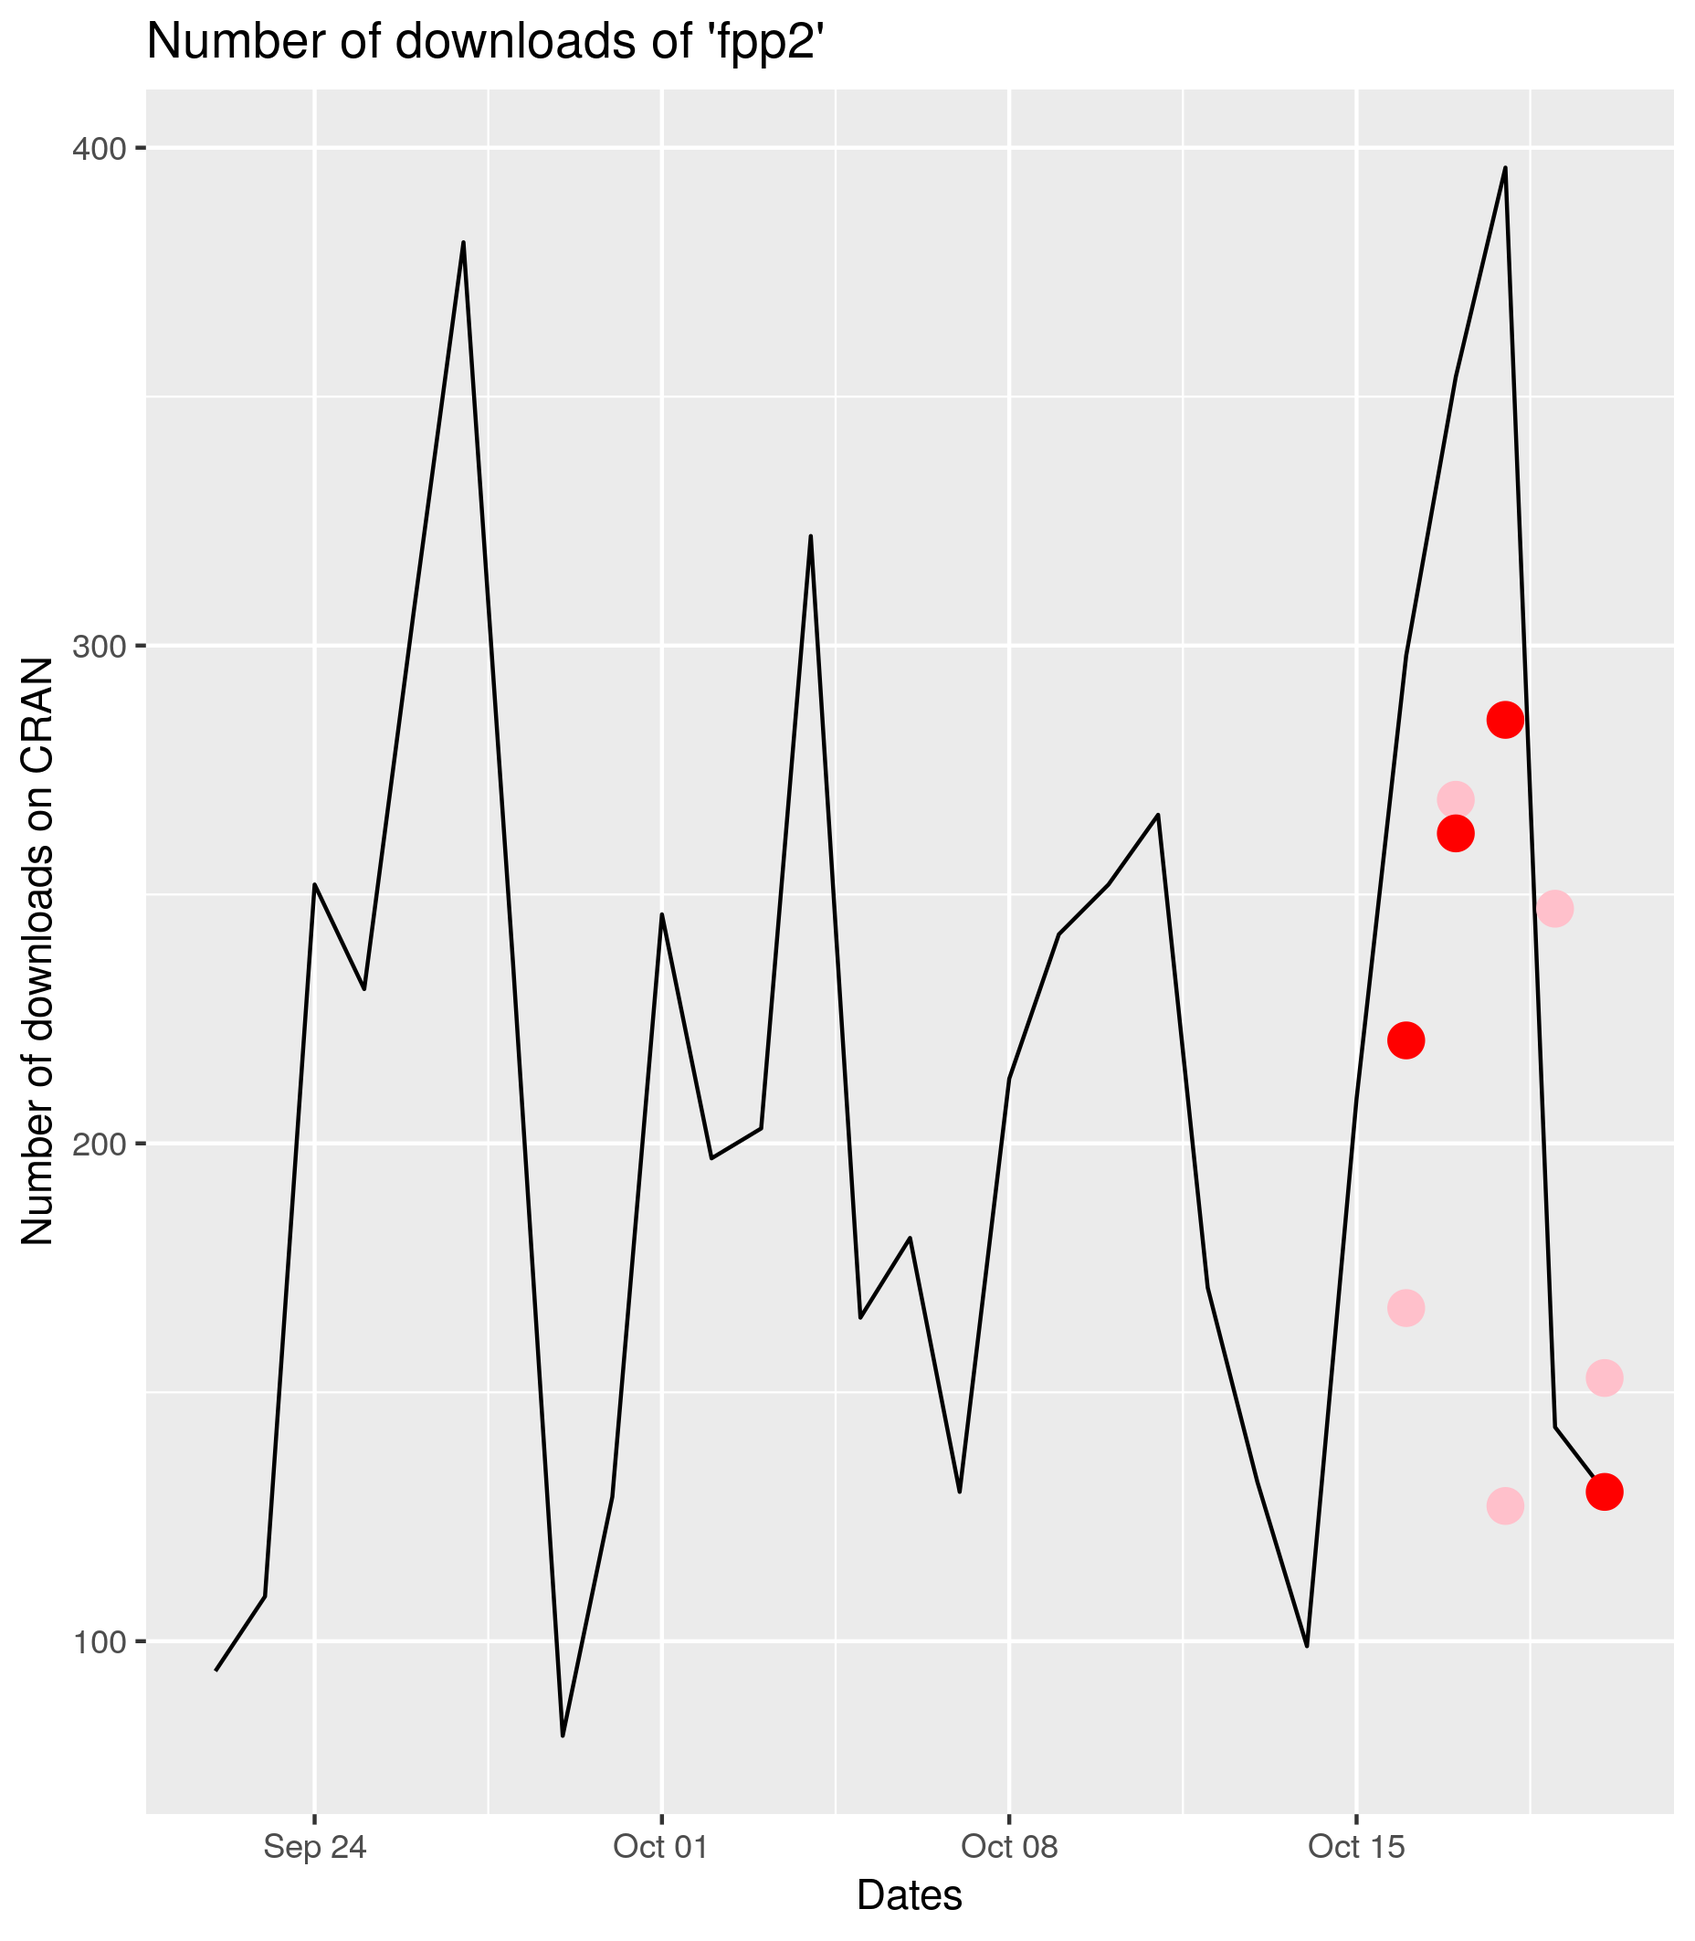
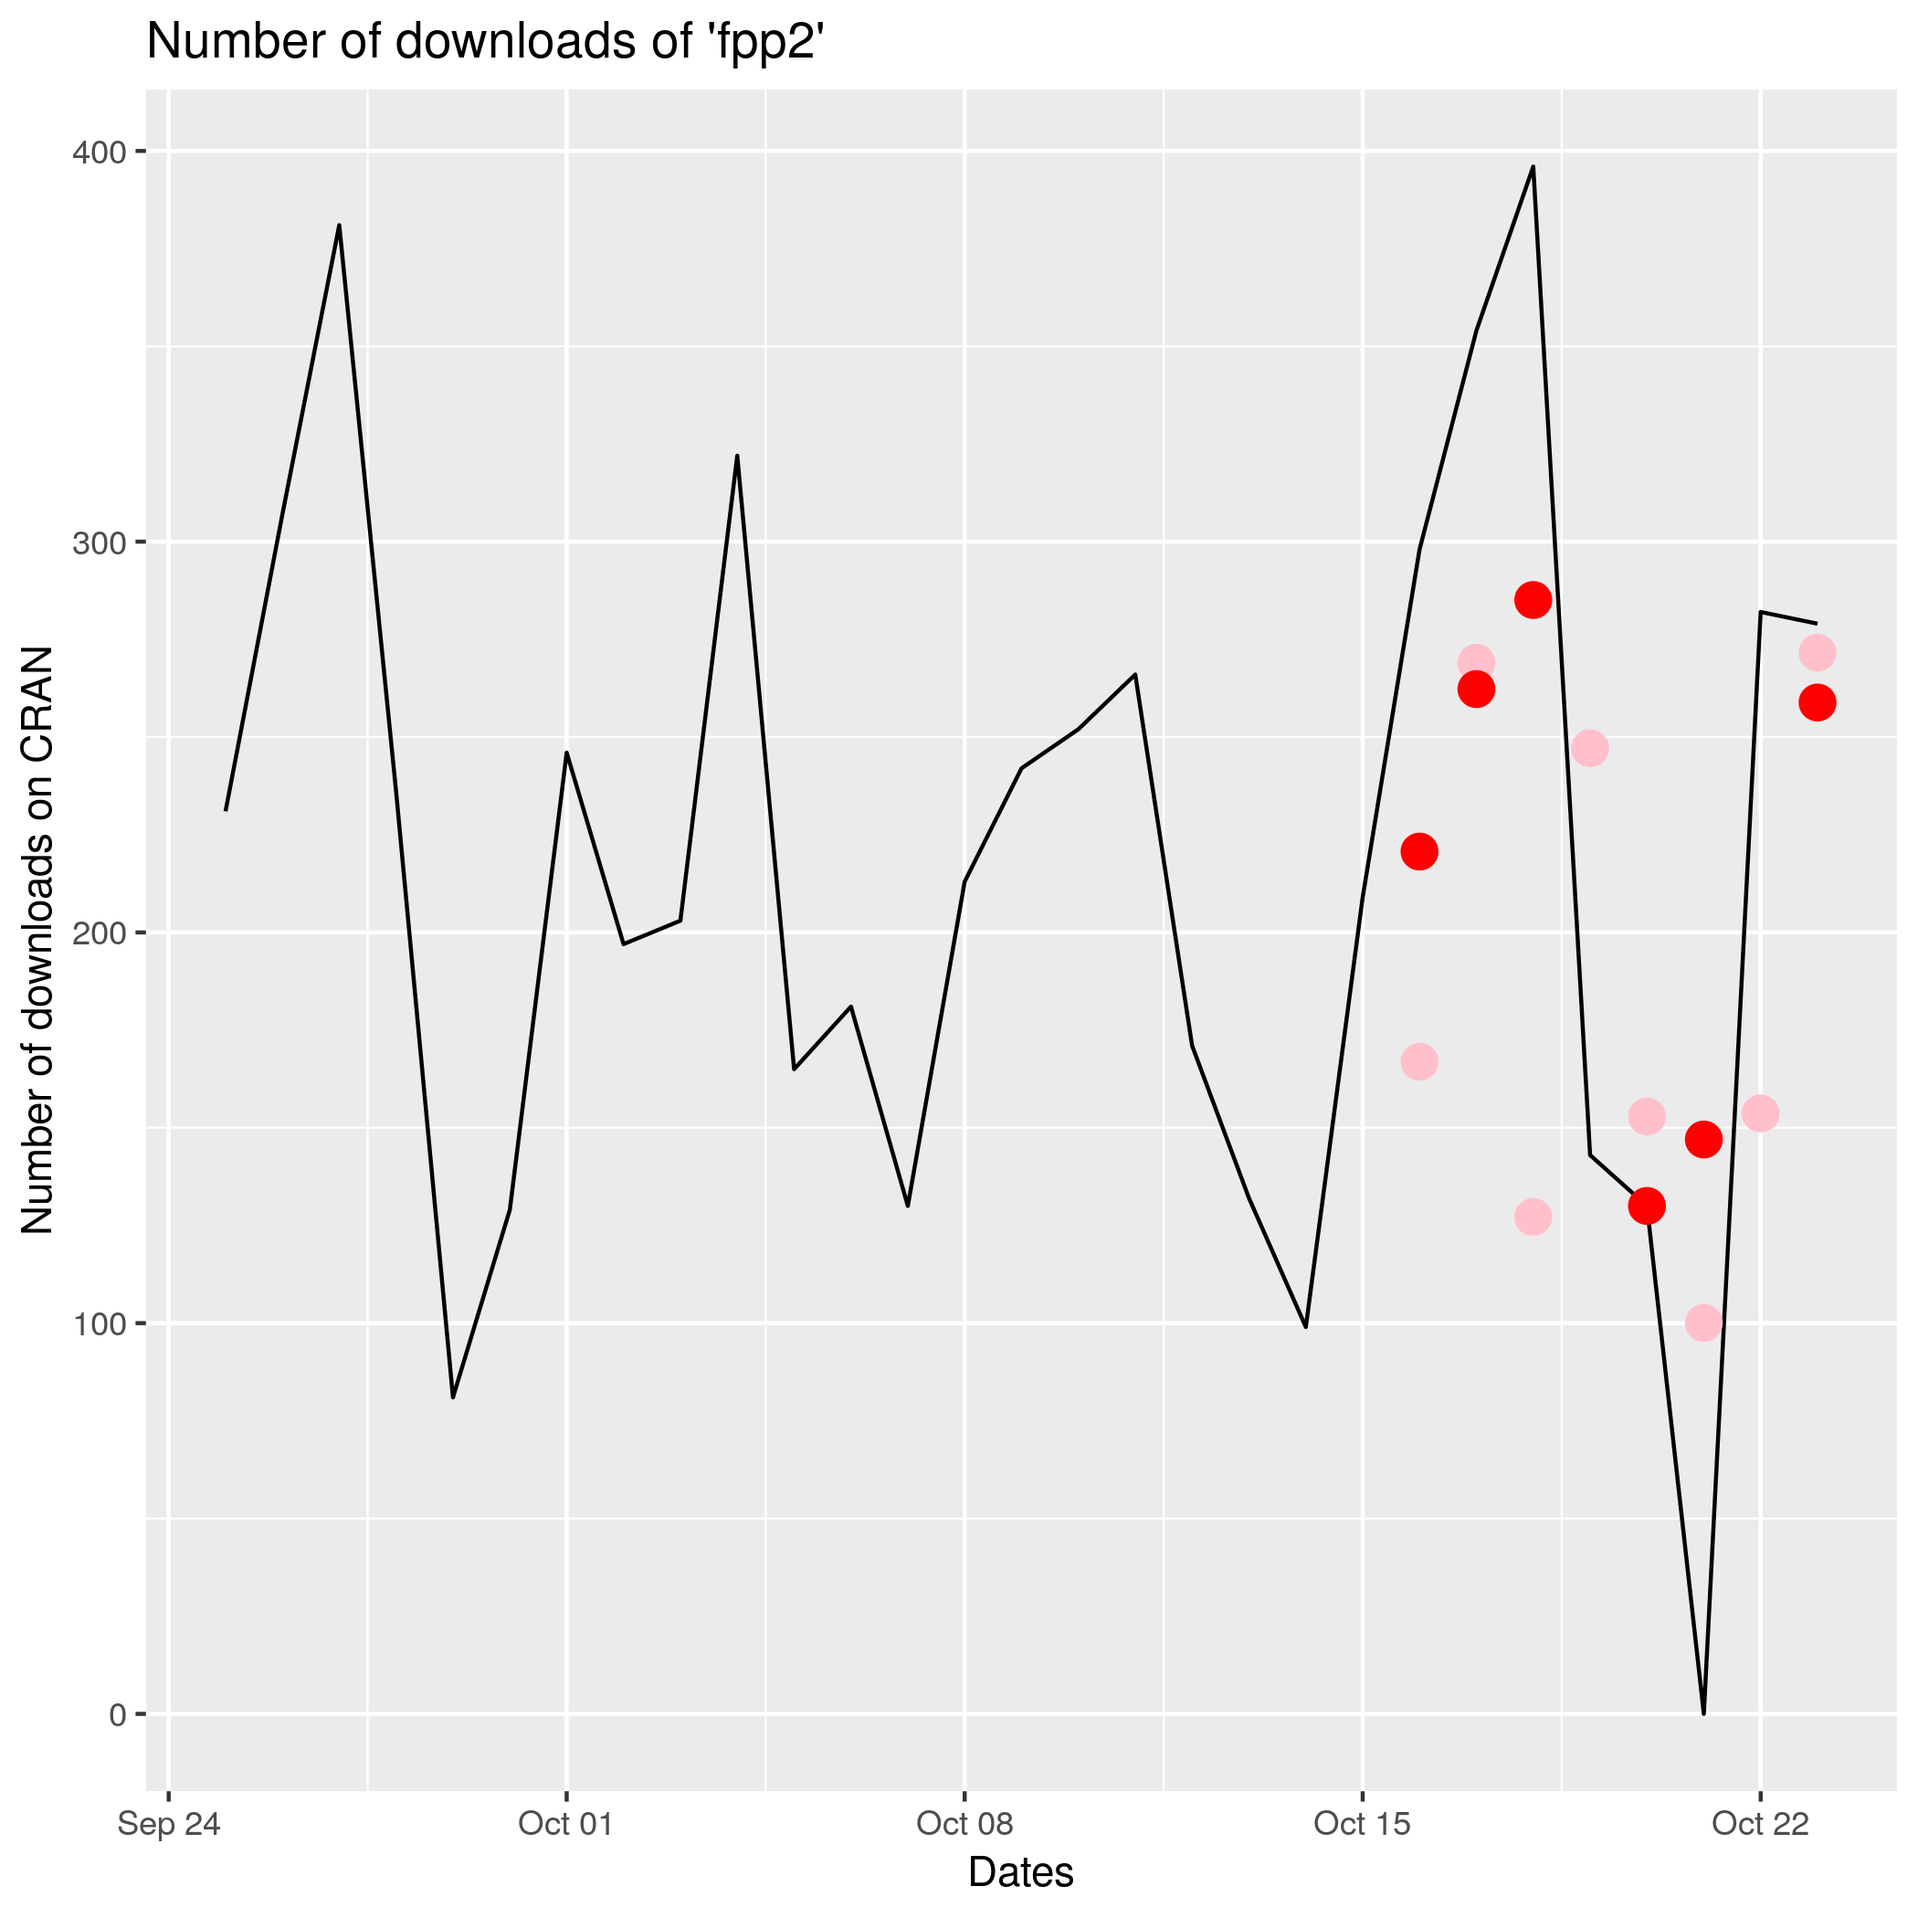
updated forecast

diff --git a/content/case-studies/r-package.md b/content/case-studies/r-package.md
@@ -88,7 +88,7 @@ lecture.
 
 ### results (update 23.10.2018)
 
-<img src="https://raw.githubusercontent.com/SMAC-Group/fc2018_website/master/data/fpp2_3.png" alt="fpp22" width="400px"/> 
+<img src="https://raw.githubusercontent.com/SMAC-Group/fc2018_website/master/data/fpp2_2.png" alt="fpp22" width="400px"/> 
 
 Date | <span style="color:red">Max</span> | <span style="color:pink">Lumia</span>
 --- | --- | ---
@@ -98,4 +98,6 @@ Date | <span style="color:red">Max</span> | <span style="color:pink">Lumia</span
 19.10 | $\emptyset$ | 104.14
 20.10 | 0.01 | 22.87
 21.10 | 147 | 100   
+22.10 | $\emptyset$ | 128.33   
+23.10 | 20.17 | 7.40   
 Table: Absolute difference between forecast and realization.
